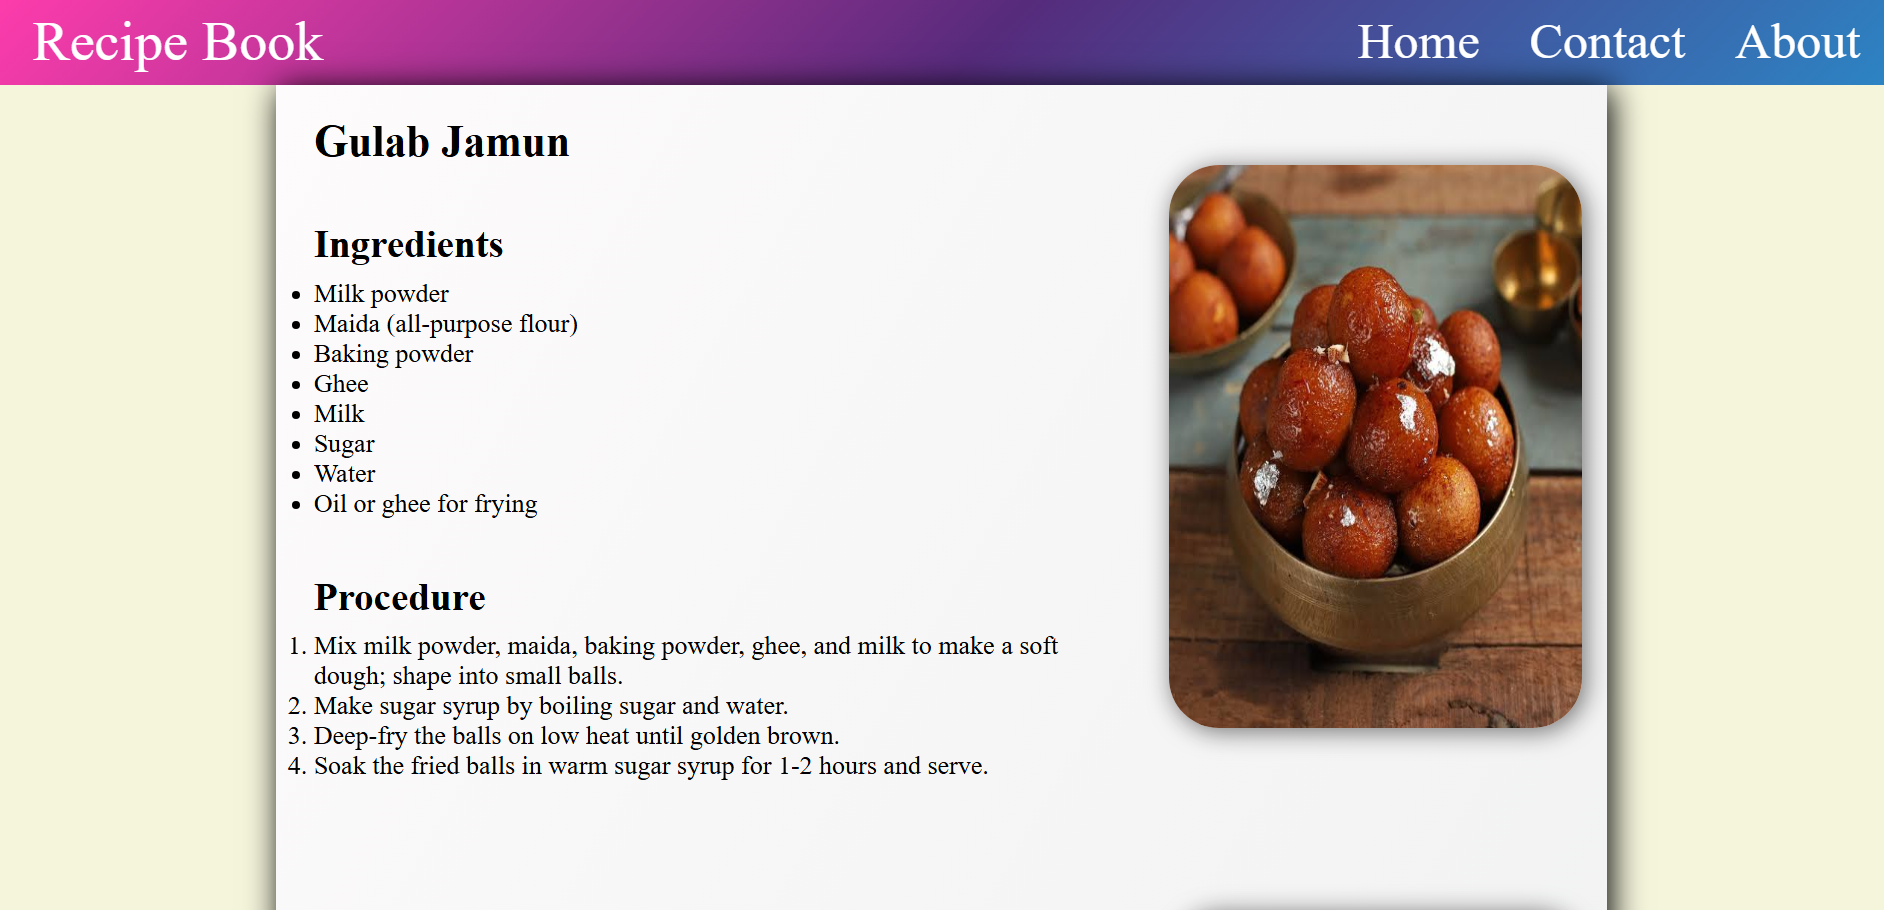
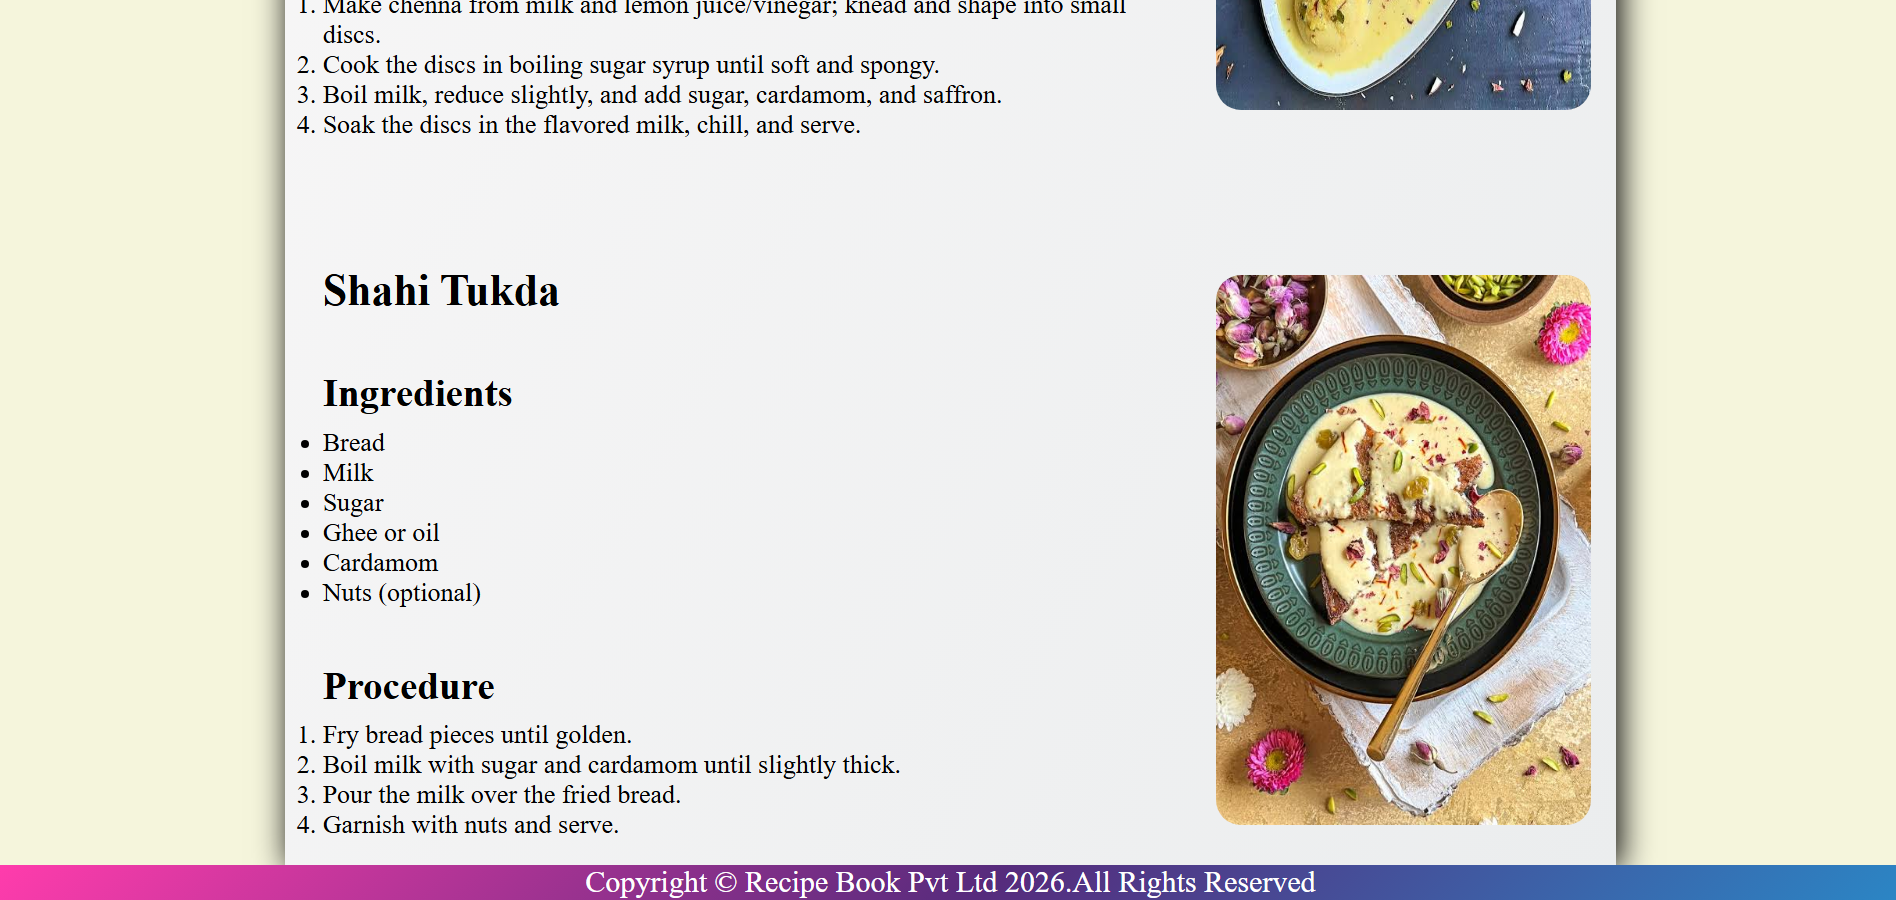
reverse sample order

diff --git a/README.md b/README.md
@@ -59,8 +59,8 @@ Recipe-Website/
 
 ---
 
-<img src="images/Screenshot1.png" alt="Project screenshot" width="600">
-<img src="images/Screenshot2.png" alt="Project screenshot" width="600">
+<img src="images/Screenshot1.png" alt="Project screenshot" width="500">
+<img src="images/Screenshot2.png" alt="Project screenshot" width="500">
 
 ---
 
